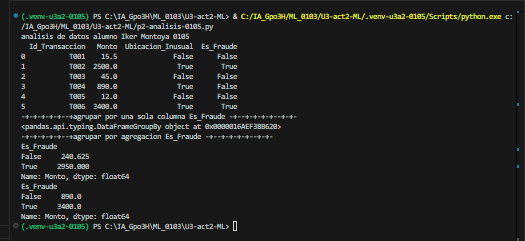
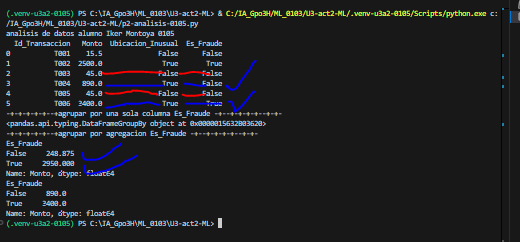
Add files via upload

diff --git a/U3-act2-ML/p2-analisis-0105.py b/U3-act2-ML/p2-analisis-0105.py
@@ -5,7 +5,7 @@ print("analisis de datos alumno Iker Montoya 0105 ")
 
 transacciones = {
     "Id_Transaccion": ["T001", "T002", "T003", "T004", "T005", "T006"],
-    "Monto": [15.50, 2500.00, 45.00, 890.00, 12.00, 3400.00],
+    "Monto": [15.50, 2500.00, 45.00, 890.00, 45.00, 3400.00],
     "Ubicacion_Inusual": [False, True, False, True, False, True],
     "Es_Fraude": [False, True, False, False, False, True]
 }
@@ -20,4 +20,3 @@ print(agrupados['Monto'].mean())
 
 # Maximum monto in each fraude
 print(agrupados['Monto'].max())
-

diff --git a/U3-act2-ML/leeme.md b/U3-act2-ML/leeme.md
@@ -1,2 +1,6 @@
-## resultados primera parte 
-![alt text](image-2.png)
+
+
+
+
+### resultados primera parte 
+![alt text](image.png)
